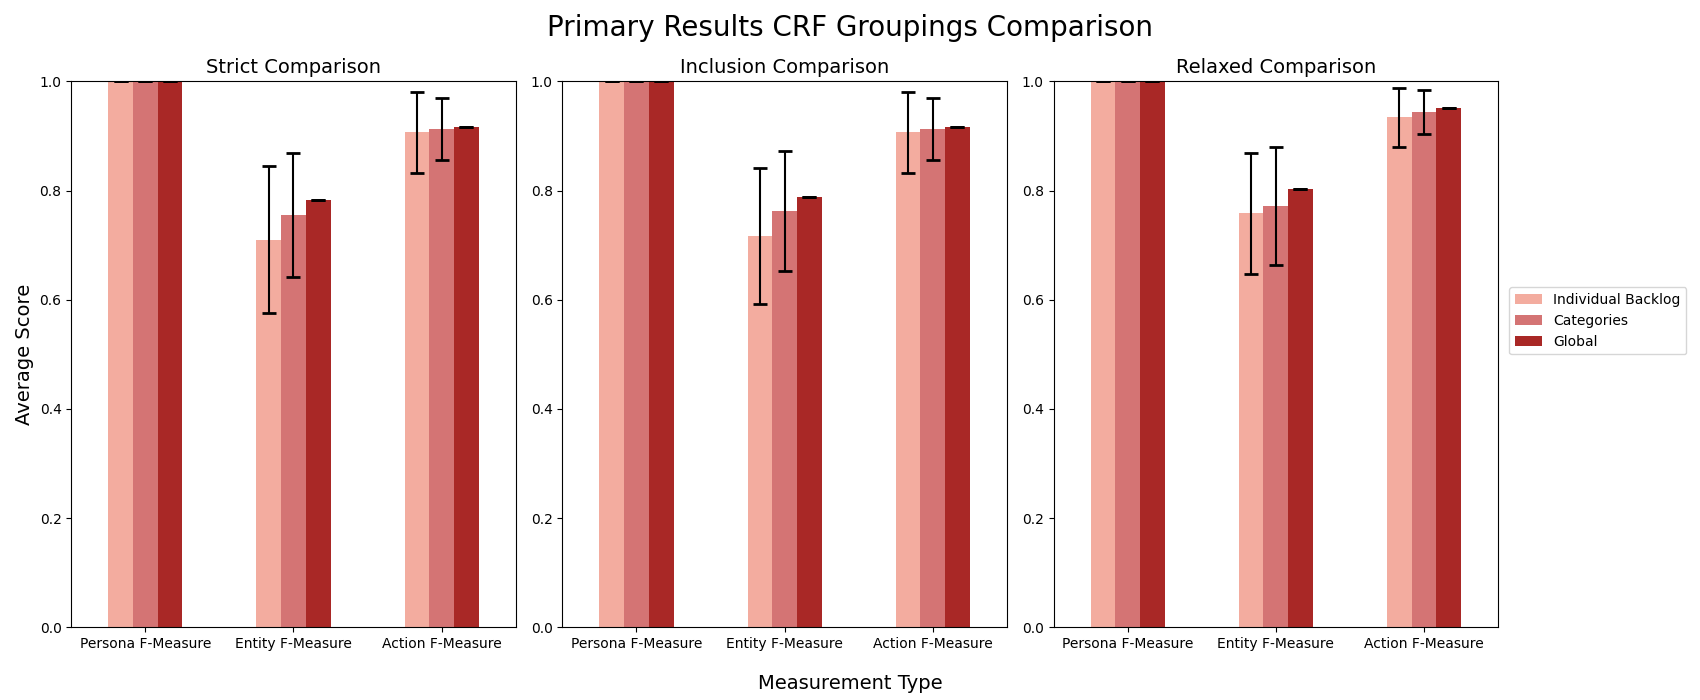
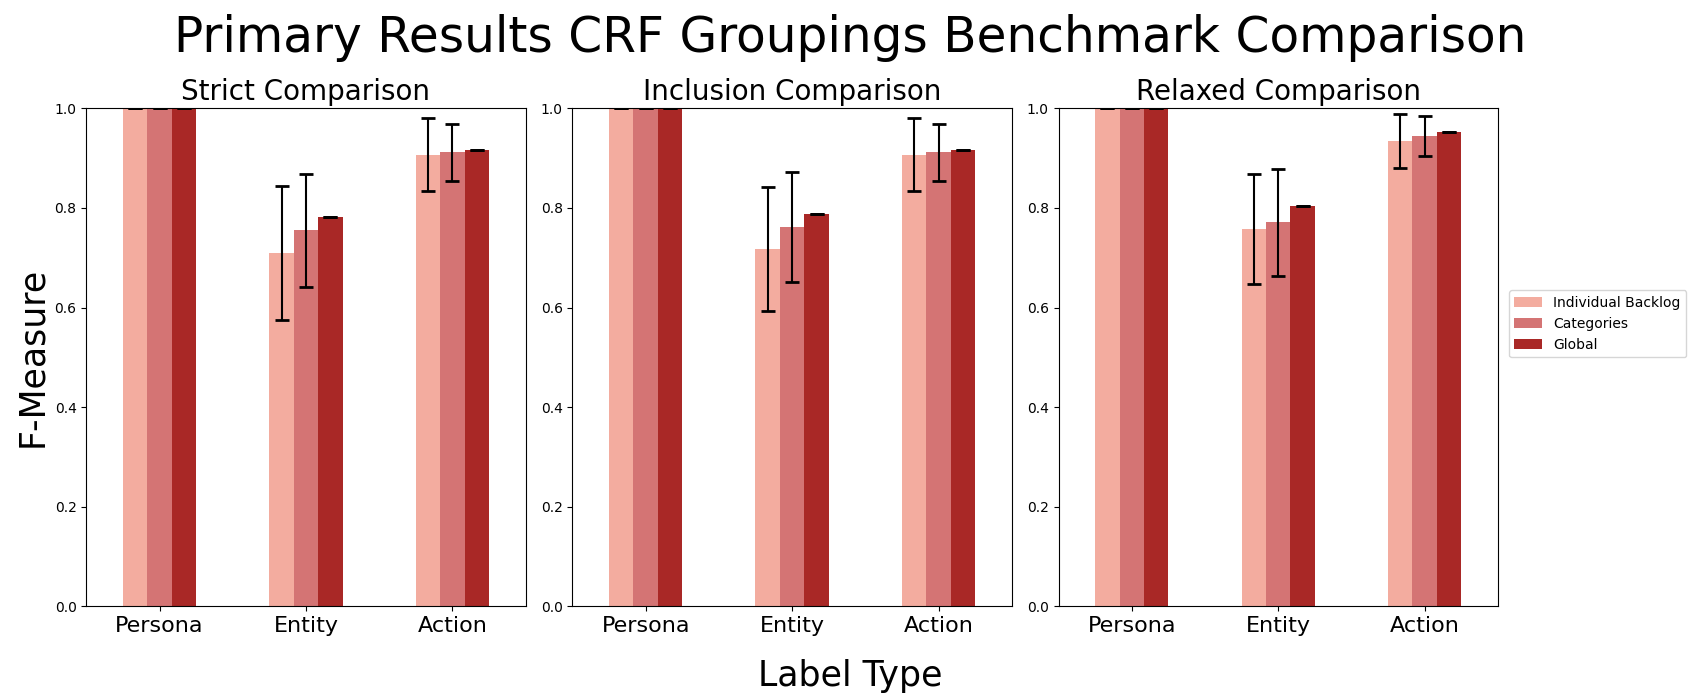
Saving all final results into one csv  file

diff --git a/compare/compare_crf_results.py b/compare/compare_crf_results.py
@@ -126,29 +126,32 @@ def create_final_bargraph(strict_data, inclusion_data, relaxed_data, title, save
 
     strict_yerr = find_max_y_error(strict_data[["individual backlog SD","categories SD","global SD"]], strict_data[["Individual Backlog", "Categories","Global"]])
     strict_data[["Individual Backlog", "Categories","Global"]].plot(ax = left, kind='bar', alpha = 0.85, yerr = strict_yerr, error_kw=dict(lw = 1.5, capthick = 2, capsize = 5, ecolor='k'), figsize=(17,7), color = ["#f29e8e", "indianred", "#9a0200"])
-    left.set_title("Strict Comparison", fontsize = 14)
-    left.set_ylabel("Average Score", fontsize = 14)
+    left.set_title("Strict Comparison", fontsize = 20)
+    left.set_ylabel("F-Measure", fontsize = 25)
+    left.set_xticklabels(["Persona", "Entity", "Action"], fontsize = 16)
     left.tick_params(labelrotation = 0)
     left.get_legend().remove()
     left.set_ylim([0, 1])
 
     inclusion_yerr = find_max_y_error(inclusion_data[["individual backlog SD","categories SD","global SD"]], inclusion_data[["Individual Backlog", "Categories","Global"]])
     inclusion_data[["Individual Backlog", "Categories","Global"]].plot(ax = middle, kind='bar', alpha = 0.85, yerr = inclusion_yerr, error_kw=dict(lw = 1.5, capthick = 2, capsize = 5, ecolor='k'), figsize=(17,7), color = ["#f29e8e", "indianred", "#9a0200"])
-    middle.set_title("Inclusion Comparison", fontsize = 14)
+    middle.set_title("Inclusion Comparison", fontsize = 20)
     middle.tick_params(labelrotation = 0)
+    middle.set_xticklabels(["Persona", "Entity", "Action"], fontsize = 16)
     middle.get_legend().remove() 
     middle.set_ylim([0, 1])
 
     relaxed_yerr = find_max_y_error(relaxed_data[["individual backlog SD","categories SD","global SD"]], relaxed_data[["Individual Backlog", "Categories","Global"]])
     relaxed_data[["Individual Backlog", "Categories","Global"]].plot(ax = right, kind='bar', alpha = 0.85, yerr = relaxed_yerr, error_kw=dict(lw = 1.5, capthick = 2, capsize = 5, ecolor='k'), figsize=(17,7), color = ["#f29e8e", "indianred", "#9a0200"])
-    right.set_title("Relaxed Comparison", fontsize = 14)
+    right.set_title("Relaxed Comparison", fontsize = 20)
     right.tick_params(labelrotation = 0)
+    right.set_xticklabels(["Persona", "Entity", "Action"], fontsize = 16)
     right.get_legend().remove()
     right.set_ylim([0, 1])
     
 
-    graph.suptitle(title, fontsize = 20)
-    graph.supxlabel("Measurement Type", fontsize=14)
+    graph.suptitle(title, fontsize = 35)
+    graph.supxlabel("Label Type", fontsize=25)
     plt.legend(loc=(1.025,0.5))
 
     plt.tight_layout()

diff --git a/compare/combine_final_results.py b/compare/combine_final_results.py
@@ -18,6 +18,7 @@ def main():
 
     formatted_data  = format_data(data, with_crf)
 
+    save_csv_file(formatted_data, save_name)
     create_final_bargraph(formatted_data, title, save_name, with_crf)
     
     print("Graph is saved")
@@ -127,7 +128,7 @@ def format_data(data, with_crf):
     with_crf (bool): use crf results in graphs
 
     Returns:
-    formatted_data (3D-list): contains the formatted data to graph
+    formatted_data (list): contains the formatted data to graph
     '''
     if with_crf:
         ecmfa_vn_bklg, simple_bklg, vn_bklg, ecmfa_vn_cat, simple_cat, vn_cat, ecmfa_vn_glo, simple_glo, vn_glo, crf_bklg, crf_cat, crf_glo = data
@@ -193,6 +194,25 @@ def organize_data_without_crf(ecmfa, simple, bklg):
             raise Exception ("Invalid data matching across files. Ensure that the comparison mode matches across each file")
 
     return strict_data, inclusion_data, relaxed_data
+
+def save_csv_file(formatted_data, save_name):
+    '''
+    will save all the final results into one csv file
+
+    Parameters:
+    formatted_data (list): contains all the final information
+    save_name (str): name of the saving file
+    ''' 
+    final_data = pd.concat(formatted_data)
+    comparison_mode = (["Strict"] * 3 + ["Inclusion"] * 3 + ["Relaxed"] * 3) * 3
+    data_groupings = ["Individual Backlog"] * 9 + ["Categories"] * 9 + ["Global"] * 9
+
+    final_data["Comparison Mode"] = comparison_mode
+    final_data["Data Groupings"] = data_groupings
+
+    saving_path = "final_results\\comparing_nlps_results\\average_results\\combined_results\\final_data\\" + save_name + ".csv"
+
+    final_data.to_csv(saving_path)
 
 def create_final_bargraph(formatted_data, title, save_name, with_crf):
     
@@ -286,11 +306,12 @@ def create_final_bargraph(formatted_data, title, save_name, with_crf):
     position[2,2].set_ylim([0, 1])
 
     graph.suptitle(title, fontsize = 20)
-    graph.supxlabel("F-Measure", fontsize=14)
+    graph.supxlabel("Label Type", fontsize=14)
+    graph.supylabel("F-Measure", x = 0.01, y = 0.5, fontsize = 14)
     
     plt.tight_layout()
 
-    saving_path = "final_results\\comparing_nlps_results\\average_results\\combined_results\\" + save_name + ".png"
+    saving_path = "final_results\\comparing_nlps_results\\average_results\\combined_results\\graphs\\" + save_name + ".png"
 
     plt.savefig(saving_path)
 
